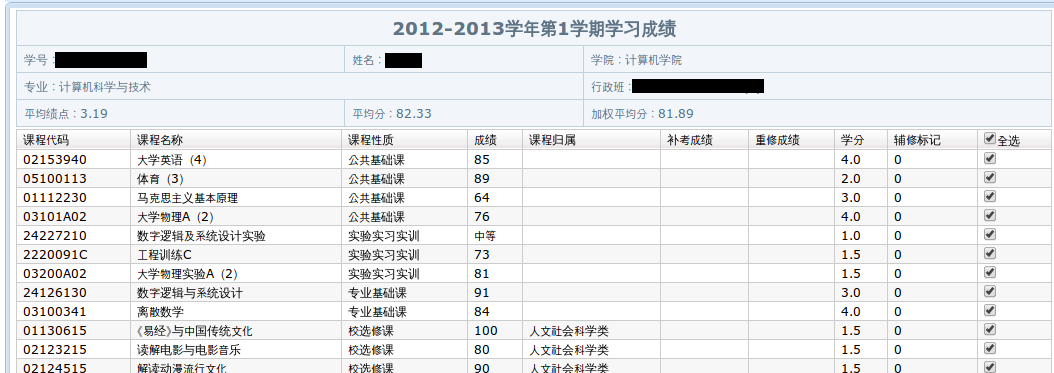
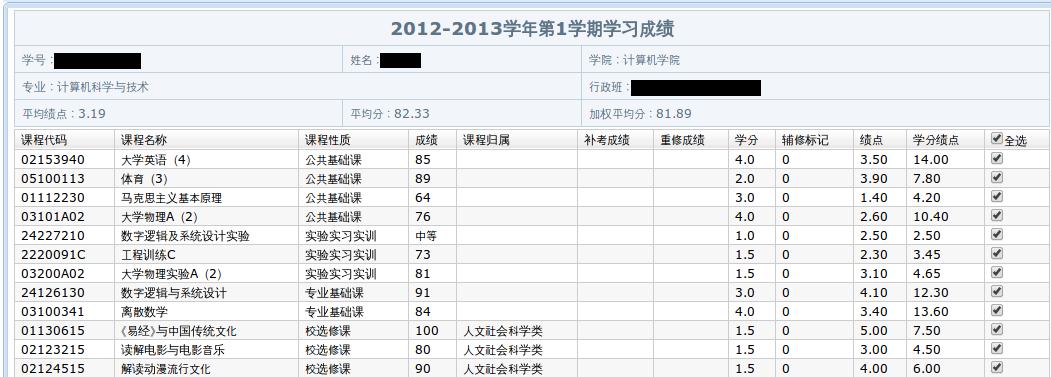
计算各科绩点、学分绩点

Changed region(s): [[0.0, 0.0, 1.0, 1.0], [0.3654, 0.059, 0.6394, 0.118], [0.9743, 0.2359, 1.0, 0.2949]]

diff --git a/gdut-jwgl-helper.js b/gdut-jwgl-helper.js
@@ -123,6 +123,12 @@ GPA.init = function() {
     this.tdScore = tdScore;
     this.tdWScore = tdWScore;
 
+    // 增加两列，显示每一科的学分绩点
+    $("<td></td>").appendTo($(this.rows));
+    $("td:last-child", this.rows[0]).html('绩点');
+    $("<td></td>").appendTo($(this.rows));
+    $("td:last-child", this.rows[0]).html('学分绩点');
+
     lastrow.appendChild(tdGPA);
     lastrow.appendChild(tdScore);
     lastrow.appendChild(tdWScore);
@@ -225,6 +231,9 @@ GPA.calculate = function() {
         } else {
             gpa = 0;
         }
+
+        $(tds[9]).text(gpa.toFixed(2));
+        $(tds[10]).text((gpa * credit).toFixed(2));
 
         sumScore += score;
         sumGPA += gpa * credit;

diff --git a/README.md b/README.md
@@ -5,7 +5,8 @@ gdut-jwgl-helper
 ## 功能
 
 ### 计算平均绩点和平均分
-根据学生手册中提供的公式计算平均绩点，平均分和加权平均分，显示在顶部。
+根据学生手册中提供的公式计算平均绩点，平均分和加权平均分，显示在顶部。计算各科
+绩点、学分绩点。
 
 ![绩点](https://raw.github.com/vtmer/gdut-jwgl-helper/master/image/GPA.png)
 
